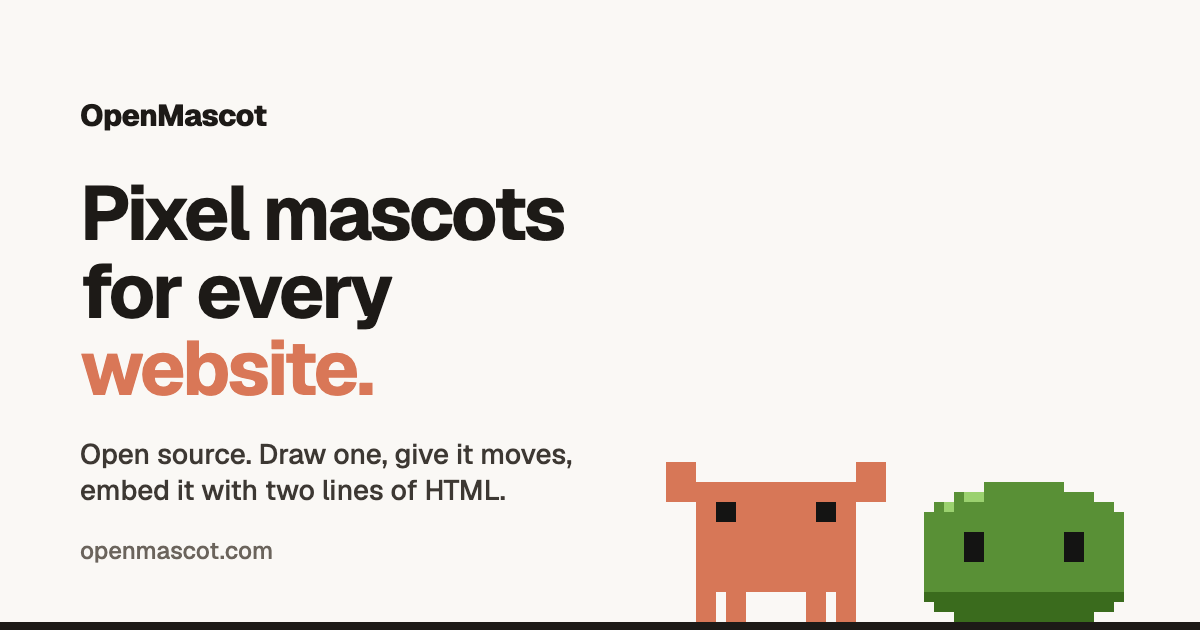
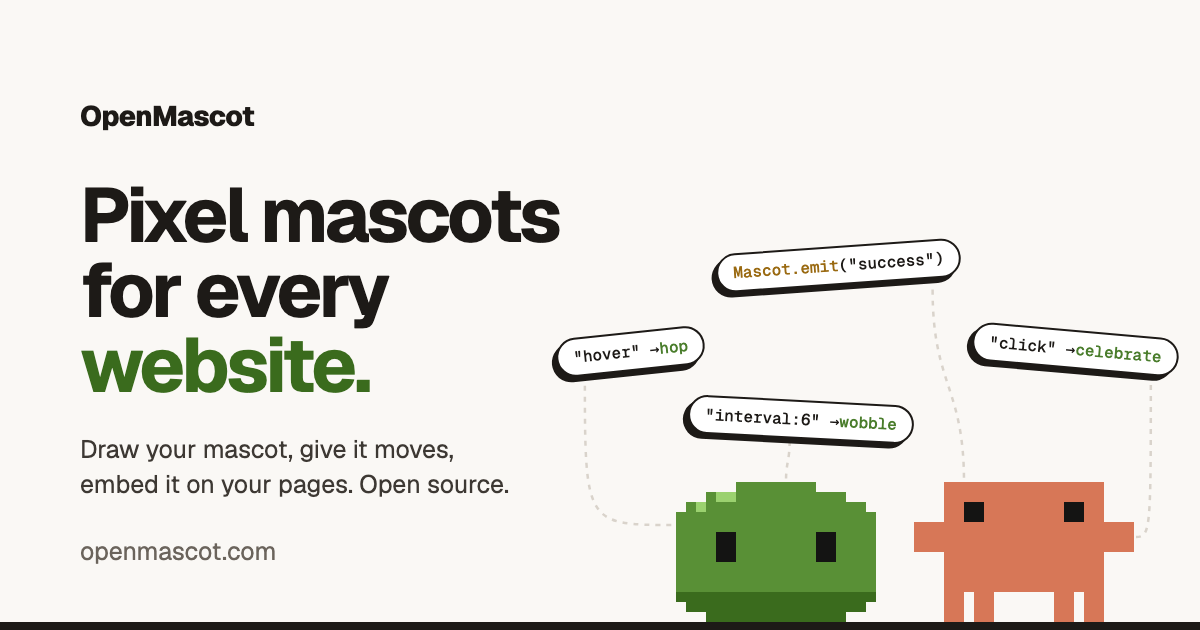
feat: move off the Claude orange brand
Site: Moss's dark green (#3a6b1d) is the brand color. Primary buttons are
ink black like the header button. Feature cards get distinct tints, section
chips and hero notes get a red square, the mascot click hearts are red, and
the hero event dots and code snippet tags keep the original orange. Lucide
icons (arrow-up-right, star, rotate-ccw) replace the pixel arrow and reload
icons; "Read the code" is now "Star on GitHub", and the "Two lines of HTML"
note is gone.

The link preview image follows: a green "website.", Moss before Clawd with
the hero's trigger chips wired to them, and "Draw your mascot, give it
moves, embed it on your pages. Open source."

Studio: black is the brand color, so selection no longer reads as success.
Primary buttons darken on hover instead of turning orange, and the blank
canvas dot keeps the original orange.

diff --git a/apps/site/src/app/globals.css b/apps/site/src/app/globals.css
@@ -10,9 +10,9 @@
   --color-muted: #6b645c;
   --color-line: #d9d3cb;
   --color-line-2: #efeae3;
-  --color-clay: #d97757;
-  --color-clay-deep: #be684d;
-  --color-clay-tint: #fdf3ee;
+  --color-clay: #3a6b1d;
+  --color-clay-deep: #2c5215;
+  --color-clay-tint: #edf3e8;
   --color-stage: #141413;
   --color-stage-text: #a39b90;
   --color-ink-soft: #3d3833;
@@ -28,21 +28,25 @@
   --color-sky: #f3eee7;
   --color-sky-line: #efe9e1;
   --color-ink-hover: #2b2723;
-  /* The spec's clay and moss fail AA under small white text, so text and buttons use darker twins. */
-  --color-clay-button: #b05b3c;
-  --color-clay-button-hover: #9e4f33;
-  --color-clay-text: #a9563b;
+  /* The spec's moss fails AA under small white text, so its text uses a darker twin. */
+  --color-clay-text: #3a6b1d;
   --color-moss: #599036;
   --color-leaf: #9bd16f;
   --color-moss-tint: #eef7e6;
   --color-moss-text: #4a7d2c;
   --color-gold: #e0a83a;
-  --color-gold-tint: #fdf4e1;
+  --color-gold-tint: #fcf5d7;
   --color-gold-text: #9a6a12;
   --color-lilac: #8b7cf6;
-  --color-lilac-tint: #f1eef7;
+  --color-lilac-tint: #efeafc;
   --color-blue: #4a7d8f;
-  --color-blue-tint: #eaeeef;
+  --color-blue-tint: #e5eefa;
+  --color-rose: #e26d9b;
+  --color-red: #e5484d;
+  /* The old clay orange, kept for code snippet tags and the hero's event dots. */
+  --color-orange: #d97757;
+  --color-mint-tint: #e3f4ef;
+  --color-rose-tint: #fbecf1;
   --color-code-punct: #9a9186;
   --font-pixel: var(--font-silkscreen);
 
@@ -101,8 +105,6 @@
   --shadow-card-hover: 0 24px 50px rgb(29 26 23 / 0.1);
   --shadow-stage: 0 30px 80px rgb(29 26 23 / 0.1);
   --shadow-code: 0 20px 50px rgb(29 26 23 / 0.2);
-  --shadow-primary: 0 6px 18px rgb(176 91 60 / 0.28), inset 0 -2px 0 rgb(0 0 0 / 0.12);
-  --shadow-primary-hover: 0 12px 30px rgb(176 91 60 / 0.42), inset 0 -2px 0 rgb(0 0 0 / 0.12);
   --shadow-live: inset 3px 0 0 var(--color-moss);
   --shadow-kbd: inset 0 -1px 0 var(--color-line);
   --shadow-ink-sm: -4px 4px 0 var(--color-ink);

diff --git a/apps/site/src/components/sections/features/Features.tsx b/apps/site/src/components/sections/features/Features.tsx
@@ -20,7 +20,7 @@ export const Features = () => (
         lede="Triggers, poses, exports, a tiny player. Nothing you have to host, nothing that phones home."
       />
       <div className="grid grid-cols-1 gap-4.5 lg:grid-cols-3">
-        <FeatureCard tint="clay" order={0} title="A simple editor" art={<EditorBoardArt />}>
+        <FeatureCard tint="moss" order={0} title="A simple editor" art={<EditorBoardArt />}>
           Pencil, mirror pencil, eraser and fill. Drag for a run of cells, and undo is <Kbd>⌘Z</Kbd>{" "}
           away.
         </FeatureCard>
@@ -32,14 +32,14 @@ export const Features = () => (
           Each pose is one drawing. Start from default and change only what differs: the eyes, the
           arms, the mouth.
         </FeatureCard>
-        <FeatureCard tint="clay" order={0} title="Takes any shape" art={<ExportsArt />}>
+        <FeatureCard tint="blue" order={0} title="Takes any shape" art={<ExportsArt />}>
           JSON for the embed script, a GIF of a move for READMEs and chat, a PNG of a pose. No
           account.
         </FeatureCard>
-        <FeatureCard tint="moss" order={1} title="A tiny player" art={<SizeArt />}>
+        <FeatureCard tint="mint" order={1} title="A tiny player" art={<SizeArt />}>
           3.9 KB gzipped, one canvas per mascot, no dependencies. Several on a page stay fast.
         </FeatureCard>
-        <FeatureCard tint="blue" order={2} title="A good guest" art={<GoodGuestArt />}>
+        <FeatureCard tint="rose" order={2} title="A good guest" art={<GoodGuestArt />}>
           Respects reduced motion, carries an accessible name, and the mascot file is plain data,
           never code.
         </FeatureCard>

diff --git a/apps/site/src/components/sections/hero/Hero.tsx b/apps/site/src/components/sections/hero/Hero.tsx
@@ -1,13 +1,19 @@
+import { StarIcon } from "lucide-react";
+
 import { Button } from "@/components/ui/button/Button";
 import { Container } from "@/components/ui/container/Container";
 import { Pill } from "@/components/ui/pill/Pill";
 import { SpeechBubble } from "@/components/ui/speech-bubble/SpeechBubble";
 import { GITHUB_URL, STUDIO_URL } from "@/lib/links";
+import { cn } from "@/lib/utils";
 
 import { EventFlip } from "./EventFlip";
 import { HeroCast } from "./HeroCast";
 
-const NOTES = ["Two lines of HTML", "3.9 KB embed", "Stays in your browser"];
+const NOTES = [
+  { text: "3.9 KB embed", dot: "bg-red" },
+  { text: "Stays in your browser", dot: "bg-lilac" }
+];
 
 export const Hero = () => (
   <section
@@ -41,14 +47,15 @@ export const Hero = () => (
         <div className="mt-7 flex flex-wrap justify-center gap-2.5">
           <Button href={STUDIO_URL}>Make a mascot</Button>
           <Button href={GITHUB_URL} variant="ghost">
+            <StarIcon aria-hidden className="size-4" strokeWidth={2.25} />
             Star on GitHub
           </Button>
         </div>
         <ul className="flex flex-wrap justify-center gap-4 text-caption text-muted">
-          {NOTES.map(note => (
-            <li key={note} className="inline-flex items-center gap-1.5">
-              <i aria-hidden className="block size-1.5 bg-leaf" />
-              {note}
+          {NOTES.map(({ text, dot }) => (
+            <li key={text} className="inline-flex items-center gap-1.5">
+              <i aria-hidden className={cn("block size-1.5", dot)} />
+              {text}
             </li>
           ))}
         </ul>

diff --git a/apps/studio/src/app/globals.css b/apps/studio/src/app/globals.css
@@ -12,12 +12,13 @@
   --color-muted: #6b645c;
   --color-line: #d9d3cb;
   --color-line-2: #efeae3;
-  --color-clay: #d97757;
-  --color-clay-deep: #be684d;
-  --color-clay-tint: #fdf3ee;
+  --color-clay: #1d1a17;
+  --color-clay-deep: #2b2723;
+  --color-clay-tint: #f1eee9;
   --color-stage: #141413;
   --color-stage-text: #a39b90;
   --color-ink-soft: #3d3833;
+  --color-ink-hover: #2b2723;
   --color-code-fg: #f1ece4;
   --color-board: #f6f2ec;
   --color-board-grid: #e3dcd2;
@@ -27,6 +28,8 @@
   --color-warning-dot: #d49a2a;
   --color-danger: #c4382a;
   --color-danger-deep: #a32b1f;
+  /* The old clay orange, kept for the blank canvas dot. */
+  --color-orange: #d97757;
   --font-sans: var(--font-geist-sans);
   --font-mono: var(--font-geist-mono);
 
@@ -64,7 +67,7 @@
   --destructive: #be684d;
   --border: #d9d3cb;
   --input: #d9d3cb;
-  --ring: #d97757;
+  --ring: #1d1a17;
   --radius: 0.5rem;
 }
 

diff --git a/apps/site/src/components/sections/final-cta/FinalCta.tsx b/apps/site/src/components/sections/final-cta/FinalCta.tsx
@@ -1,3 +1,5 @@
+import { StarIcon } from "lucide-react";
+
 import { Mascot } from "@/components/mascot/mascot/Mascot";
 import { Button } from "@/components/ui/button/Button";
 import { Container } from "@/components/ui/container/Container";
@@ -31,7 +33,8 @@ export const FinalCta = () => (
           <div className="z-2 flex flex-wrap justify-center gap-2.5">
             <Button href={STUDIO_URL}>Make a mascot</Button>
             <Button href={GITHUB_URL} variant="ghost">
-              Read the code
+              <StarIcon aria-hidden className="size-4" strokeWidth={2.25} />
+              Star on GitHub
             </Button>
           </div>
           <div className="absolute bottom-0 left-1/2 z-2 flex -translate-x-1/2 items-end gap-2.5">

diff --git a/apps/site/src/components/sections/site-header/SiteHeader.tsx b/apps/site/src/components/sections/site-header/SiteHeader.tsx
@@ -1,3 +1,5 @@
+import { ArrowUpRightIcon } from "lucide-react";
+
 import { PoseImage } from "@/components/mascot/pose-image/PoseImage";
 import { Button } from "@/components/ui/button/Button";
 import { STUDIO_URL } from "@/lib/links";
@@ -32,8 +34,9 @@ export const SiteHeader = () => (
           </a>
         ))}
       </nav>
-      <Button href={STUDIO_URL} variant="ink" size="sm" className="ml-auto hidden sm:inline-flex">
+      <Button href={STUDIO_URL} size="sm" className="ml-auto hidden sm:inline-flex">
         Open the studio
+        <ArrowUpRightIcon aria-hidden className="size-4" strokeWidth={2.25} />
       </Button>
     </div>
   </header>

diff --git a/apps/site/src/components/sections/story/StoryStage.tsx b/apps/site/src/components/sections/story/StoryStage.tsx
@@ -1,8 +1,8 @@
 "use client";
 
+import { RotateCcwIcon } from "lucide-react";
 import { useEffect, useRef, useState } from "react";
 
-import { PixelIcon } from "@/components/ui/pixel-icon/PixelIcon";
 import { PHONE, useMedia } from "@/lib/use-media";
 import { cn } from "@/lib/utils";
 
@@ -99,7 +99,7 @@ export const StoryStage = () => {
                 : "pointer-events-none scale-80 opacity-0"
             )}
           >
-            <PixelIcon name="reload" className="size-3.75" />
+            <RotateCcwIcon aria-hidden className="size-4" strokeWidth={2.25} />
           </button>
         </div>
       </div>

diff --git a/apps/studio/src/components/ui/button.tsx b/apps/studio/src/components/ui/button.tsx
@@ -15,7 +15,7 @@ export const buttonVariants = cva(
   {
     variants: {
       variant: {
-        primary: "border-ink bg-ink text-white hover:border-clay-deep hover:bg-clay-deep",
+        primary: "border-ink bg-ink text-white hover:border-ink-hover hover:bg-ink-hover",
         secondary: "border-line bg-paper text-ink hover:border-clay",
         dashed: "border-dashed border-stage-text bg-paper text-muted hover:border-clay",
         /** For actions that delete something; only inside a confirm, never as a page's main button. */

diff --git a/apps/site/src/components/ui/card/Card.tsx b/apps/site/src/components/ui/card/Card.tsx
@@ -20,11 +20,12 @@ export const Card = ({ className, ...rest }: HTMLAttributes<HTMLElement>) => (
 const cardArtVariants = cva("relative grid h-57.5 place-items-center overflow-hidden bg-dots", {
   variants: {
     tint: {
-      clay: "bg-clay-tint",
       gold: "bg-gold-tint",
       lilac: "bg-lilac-tint",
       moss: "bg-moss-tint",
-      blue: "bg-blue-tint"
+      blue: "bg-blue-tint",
+      mint: "bg-mint-tint",
+      rose: "bg-rose-tint"
     }
   },
   defaultVariants: { tint: "blue" }

diff --git a/apps/site/src/components/ui/button/Button.tsx b/apps/site/src/components/ui/button/Button.tsx
@@ -15,10 +15,8 @@ export const buttonVariants = cva(
   {
     variants: {
       variant: {
-        primary:
-          "bg-clay-button text-white shadow-primary hover:bg-clay-button-hover hover:shadow-primary-hover",
-        ghost: "border-line bg-paper text-ink",
-        ink: "bg-ink text-white hover:bg-ink-hover"
+        primary: "bg-ink text-white hover:bg-ink-hover",
+        ghost: "border-line bg-paper text-ink"
       },
       size: {
         sm: "h-9 px-3.5 text-caption",

diff --git a/apps/site/src/components/ui/pill/Pill.tsx b/apps/site/src/components/ui/pill/Pill.tsx
@@ -30,5 +30,5 @@ export const Pill = ({ tone, className, ...rest }: PillProps) => (
   <span className={cn(pillVariants({ tone }), className)} {...rest} />
 );
 
-/** The small clay square that opens a section label. */
-export const PillMark = () => <i aria-hidden className="inline-block size-1.75 bg-clay" />;
+/** The small red square that opens a section label. */
+export const PillMark = () => <i aria-hidden className="inline-block size-1.75 bg-red" />;

diff --git a/apps/site/src/components/mascot/hearts/Hearts.tsx b/apps/site/src/components/mascot/hearts/Hearts.tsx
@@ -16,7 +16,7 @@ export const Hearts = ({ hearts }: { hearts: Heart[] }) =>
           <span
             key={h.id}
             aria-hidden
-            className="pointer-events-none fixed top-(--y) left-(--x) z-70 -translate-1/2 animate-heart text-clay"
+            className="pointer-events-none fixed top-(--y) left-(--x) z-70 -translate-1/2 animate-heart text-red"
             style={
               {
                 "--x": `${h.x}px`,
